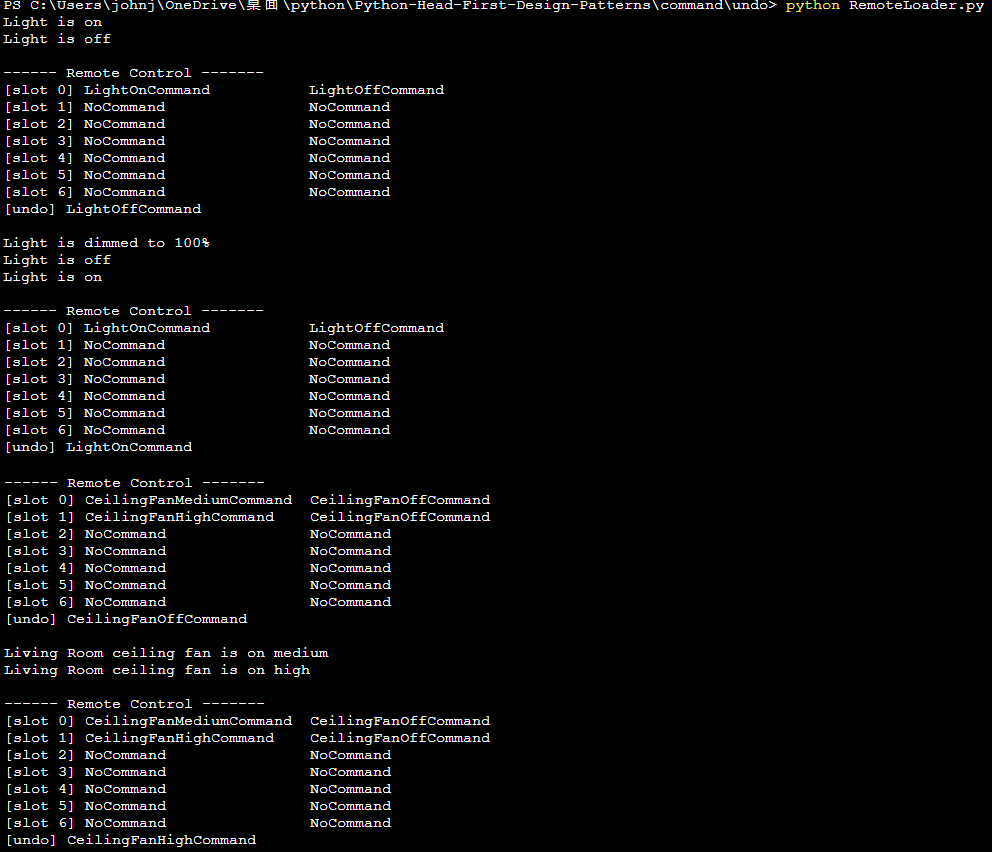
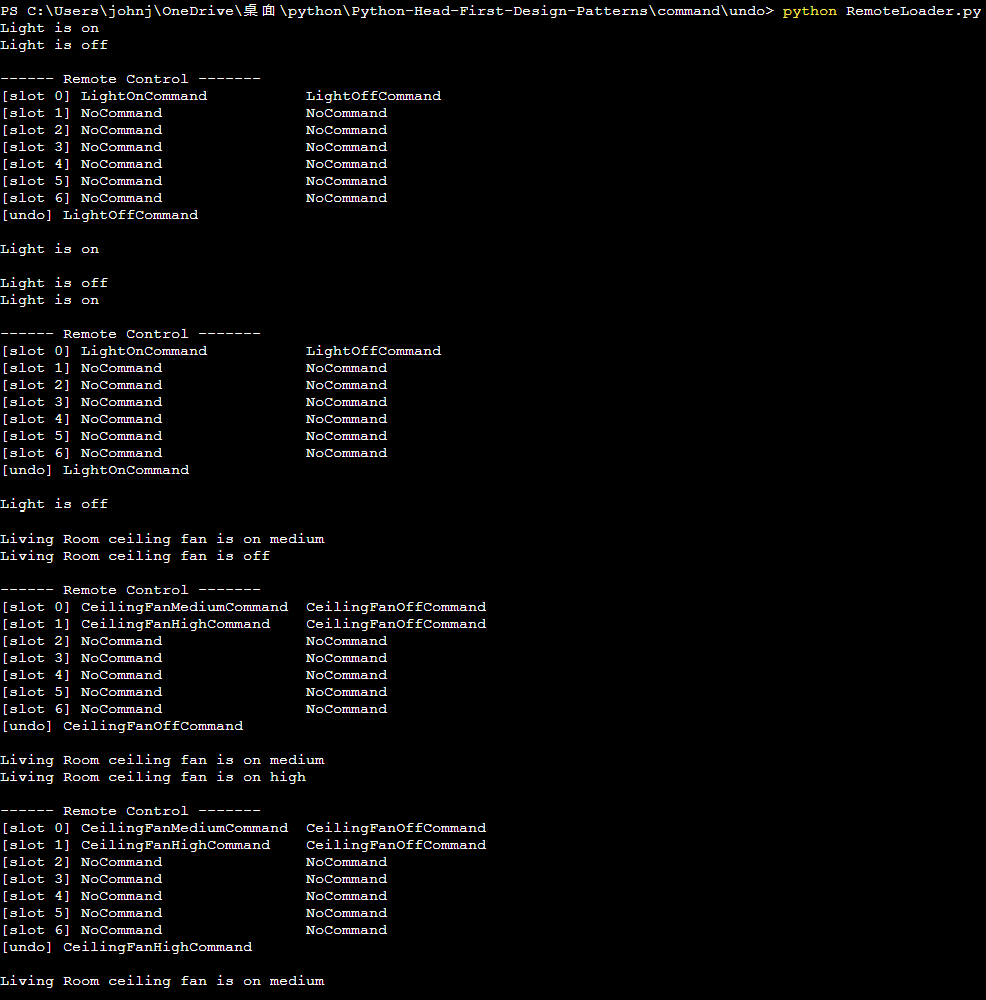
update

Changed region(s): [[0.0, 0.0, 1.0, 1.0], [0.3043, 0.0915, 0.4564, 0.2441], [0.1826, 0.2746, 0.213, 0.3052]]

diff --git a/command/undo/Light.py b/command/undo/Light.py
@@ -18,7 +18,9 @@ class Light:
         if level == 0:
             self.off()
         else:
-            print(f"Light is dimmed to {self.level}%")
+            # print(f"Light is dimmed to {self.level}%") # authors' code
+            self.on() # Not the authors' code. But this code can help show the results in the book.
+        print() # Not the authors' code. But this code can help show the results in the book.
             
     def getLevel(self) -> int:
         return self.level
